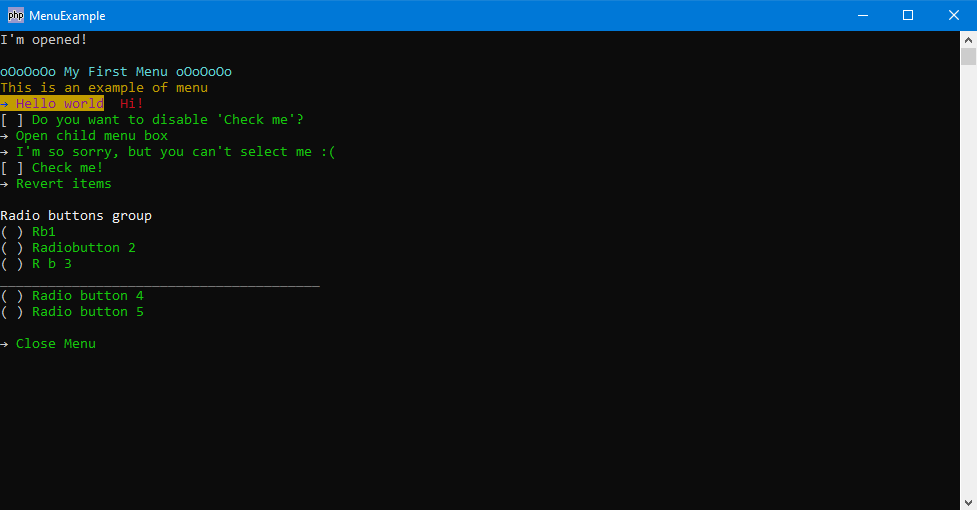
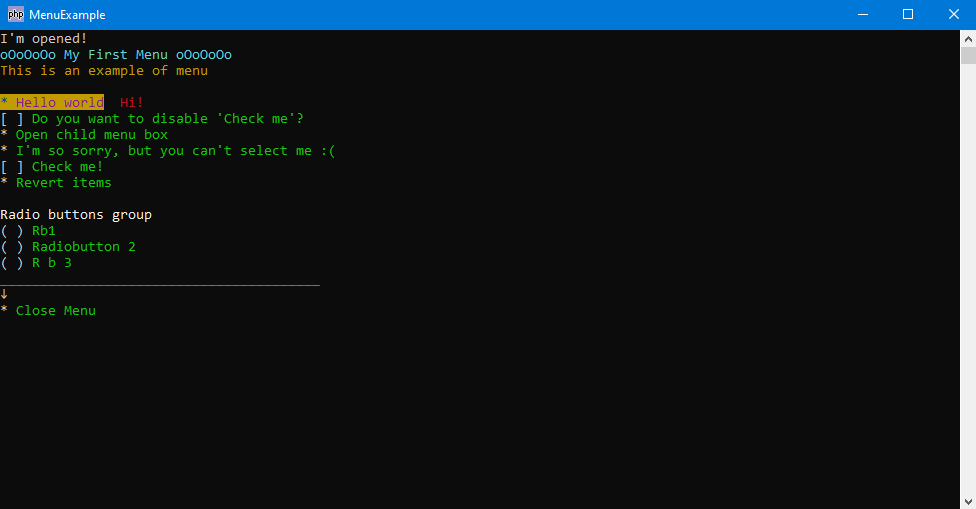
Example update

diff --git a/src/Program/Main.php b/src/Program/Main.php
@@ -1,4 +1,5 @@
 <?php
+declare(ticks = 1);
 
 namespace Program;
 
@@ -12,7 +13,6 @@ use CliForms\MenuBox\Events\SelectedItemChangedEvent;
 use CliForms\MenuBox\Label;
 use CliForms\MenuBox\MenuBoxControl;
 use CliForms\MenuBox\MenuBoxDelimiter;
-use CliForms\MenuBox\MenuBoxTypes;
 use CliForms\MenuBox\Radiobutton;
 use Data\String\ForegroundColors;
 use IO\Console;
@@ -23,12 +23,11 @@ class Main
 {
     public function __construct(array $args)
     {
-        $menu = new MenuBox("oOoOoOo My First Menu oOoOoOo", $this, MenuBoxTypes::KeyPressType);
+        $menu = new MenuBox("oOoOoOo My First Menu oOoOoOo", $this);
+        $menu->Id = "mymenubox";
         $menu->SetRowHeaderItemDelimiter(" ");
-        $menu->SetRowsHeaderType(RowHeaderType::ARROW3);
+        $menu->SetRowsHeaderType(RowHeaderType::STARS);
         $menu->SetDescription("This is an example of menu");
-        $menu->SetInputTitle("Input item number and press Enter, honey");
-        $menu->SetWrongItemTitle("Item with same number doesn't exist. Please, try again, dear!");
 
         /**
          * ADDING EVENTS TO OUR MENUBOX
@@ -72,6 +71,7 @@ class Main
             /** @var Checkbox $item */$item = $event->Item;
             $event->MenuBox->GetElementById("checkme")->Disabled($item->Checked());
         });
+        $item2->Id = "item2";
 
         $item3 = new MenuBoxItem("Open child menu box", "??", function(ItemClickedEvent $event) : void
         {
@@ -155,7 +155,8 @@ class Main
             AddItem($item5)->
             AddItem($item6)->
             AddItem($item7)->
-            AddItem(new Label("\nRadio buttons group"))->
+            AddItem(new Label(""))->
+            AddItem(new Label("Radio buttons group"))->
             AddItem($rb1)->
             AddItem($rb2)->
             AddItem($rb3)->
@@ -163,6 +164,8 @@ class Main
             AddItem($rb4)->
             AddItem($rb5)->
             SetZeroItem($zero);
+
+        $menu->ItemsContainerHeight(12);
 
         /**
          * ...and just render it
@@ -193,6 +196,30 @@ class Main
          * Testing menu box inside menu box!
          */
         $menu = new MenuBox("Child menu box", $this);
+        $menu->SetDescription("hey!");
+        /** @var array<MenuBoxItem> $items */$items = [];
+        /** @var MenuBoxItem $item */$item = null;
+        $hide = 0;
+        for ($i = 1; $i <= 30; $i++)
+        {
+            $items[] = $item = new MenuBoxItem("Item " . $i, "Hint #" . $i, function(ItemClickedEvent $event) : void {});
+            if ($hide > 0)
+            {
+                $item->Visible(false);
+
+                // hide every second element
+                $hide++;
+                if ($hide == 2)
+                {
+                    $hide = 0;
+                }
+            }
+            else
+            {
+                $hide++;
+            }
+        }
+
         $menu->
             AddItem((new MenuBoxItem("Print me time", "", function(ItemClickedEvent $event) : void
             {
@@ -202,6 +229,15 @@ class Main
             {
                 $event->MenuBox->Close();
             })));
+
+        foreach ($items as $item)
+        {
+            $menu->AddItem($item);
+        }
+        $menu->ItemsContainerHeight(7);
+        $menu->Id = "child";
+
         $menu->Render();
+        $menu->Dispose();
     }
 }
